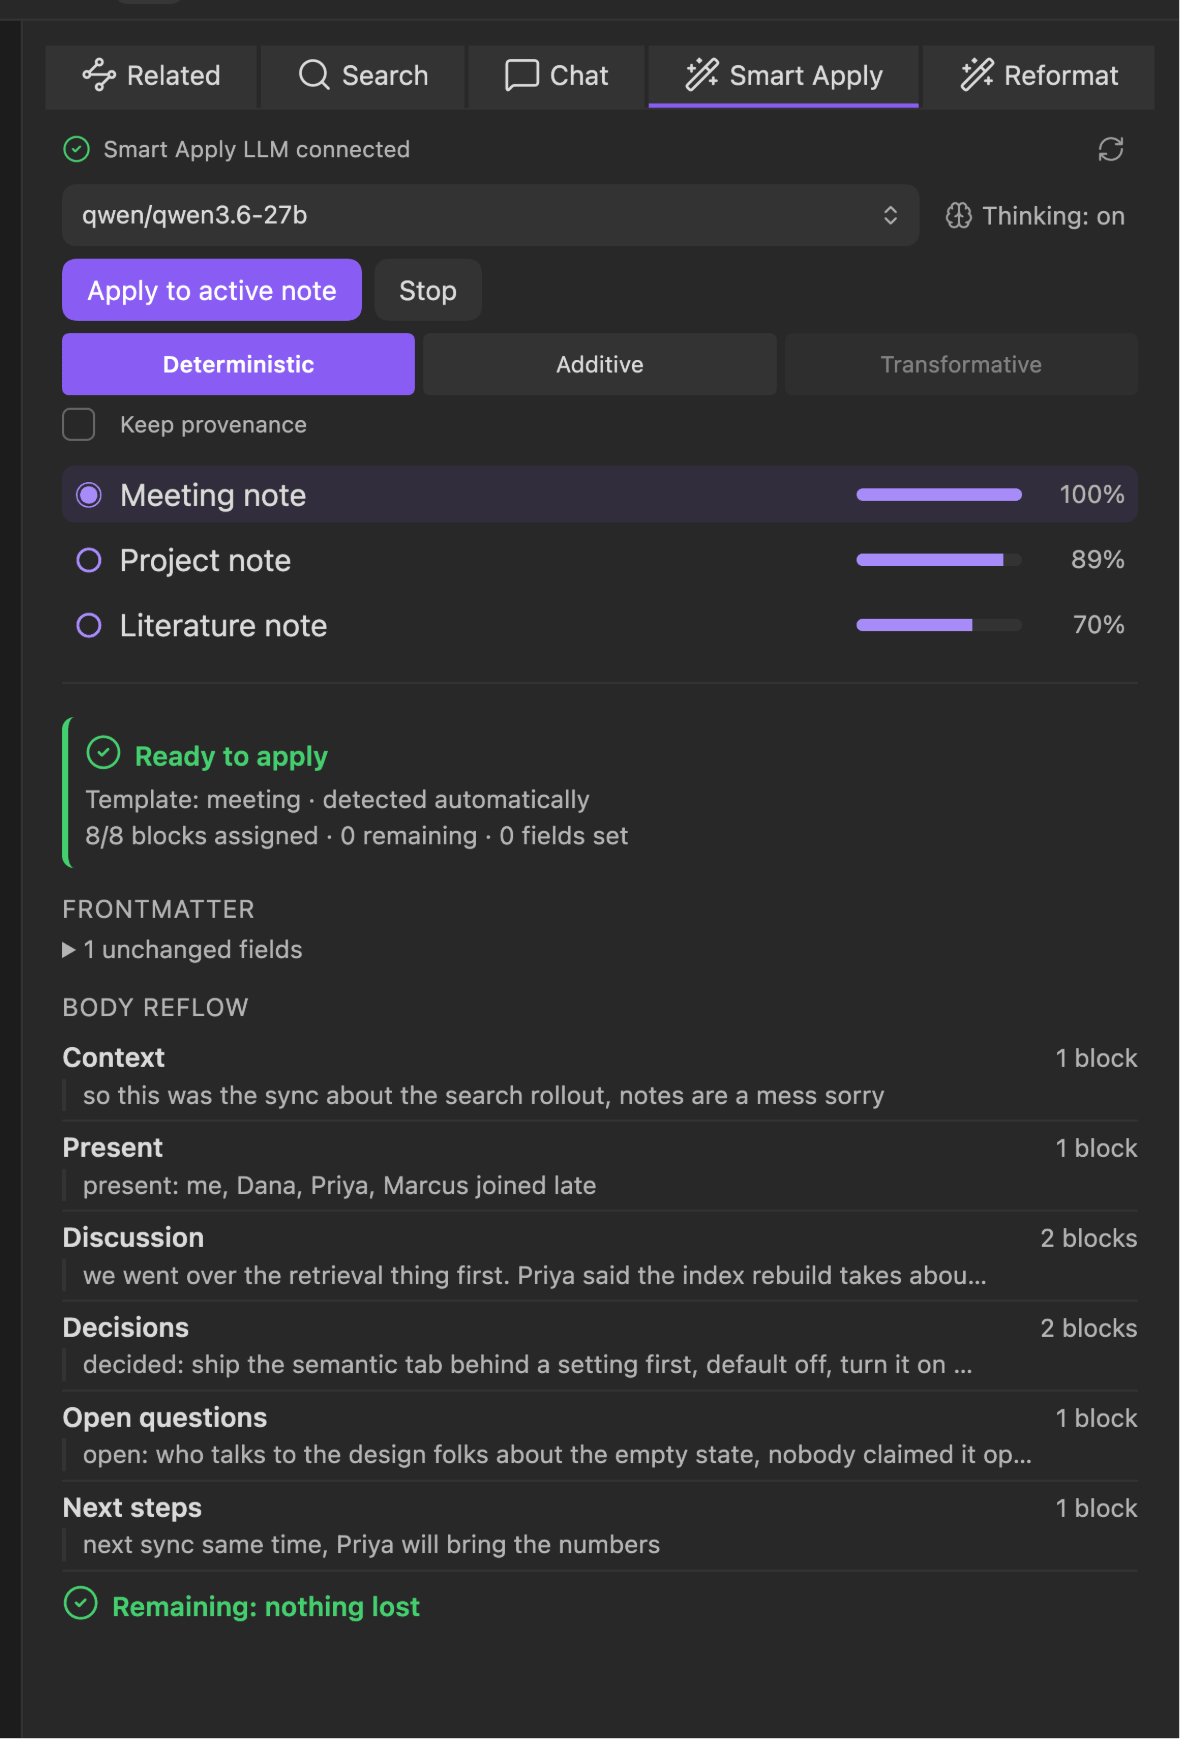
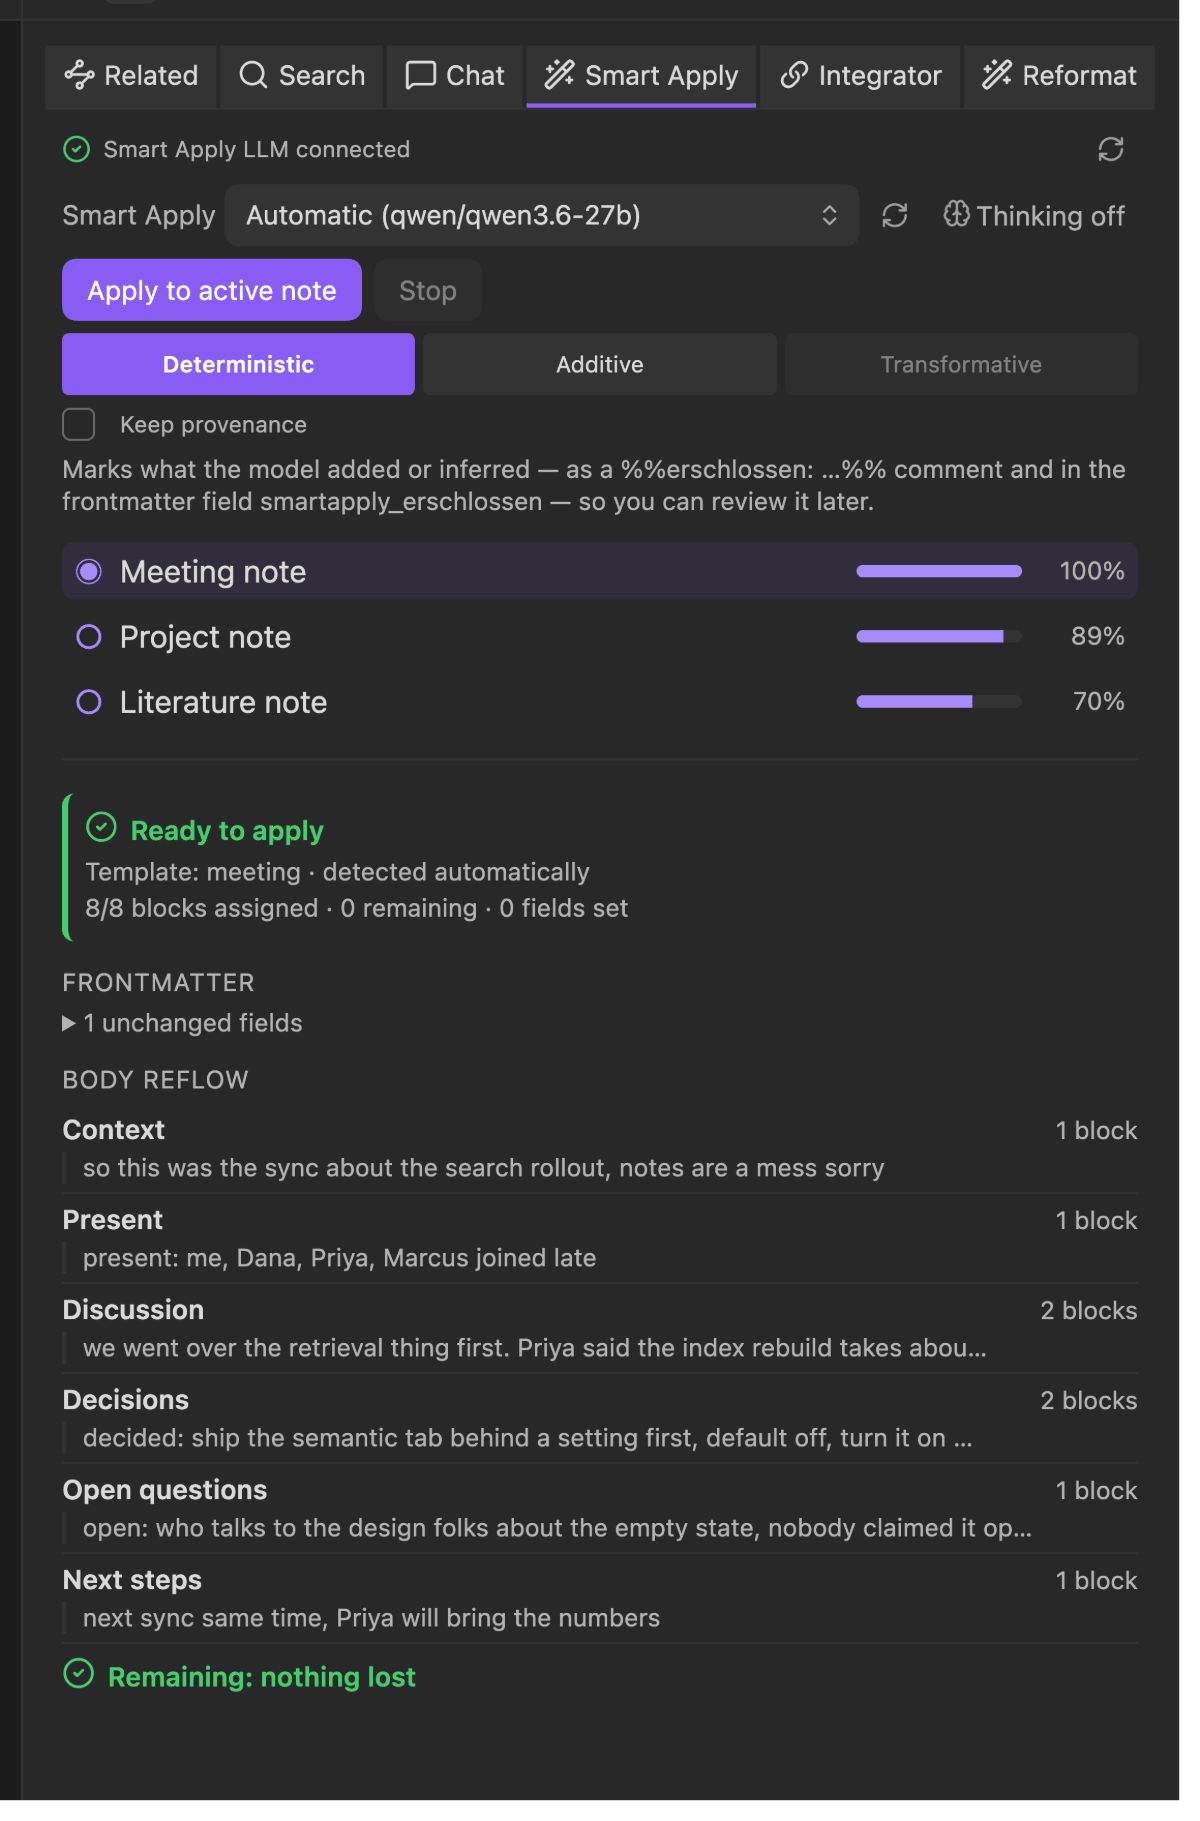
docs(images): chat.png, thinking.png, smart-apply.png mit der Modellzeile des Kit-Chatfensters
Aufgenommen mit den echten Modellen (qwen/qwen3.6-27b, qwen3-embedding:8b) auf der Zweitinstanz,
Obsidian 1.14.5, dunkel; thinking.png mit eingeschaltetem Denken (Thinking: medium).

diff --git a/docs/images/README.md b/docs/images/README.md
@@ -15,7 +15,7 @@ eine Datei ohne Eintrag und eine Einbettung ohne Vertragszeile sind je ein Befun
 
 ## Status
 
-**Stand 2026-10-16: alle neun Bilder stehen.** `npm run shots:check` ist die Wahrheit über den
+**Stand 2026-10-24: alle neun Bilder stehen; `chat.png`, `thinking.png` und `smart-apply.png` zeigen seit Welle 26 den Kopf mit der Modellzeile (Kit 0.67.1, echte Modelle).** `npm run shots:check` ist die Wahrheit über den
 Bestand: was hier in Prosa steht, kann veralten, die Prüfung nicht.
 
 ## Die Bilder
